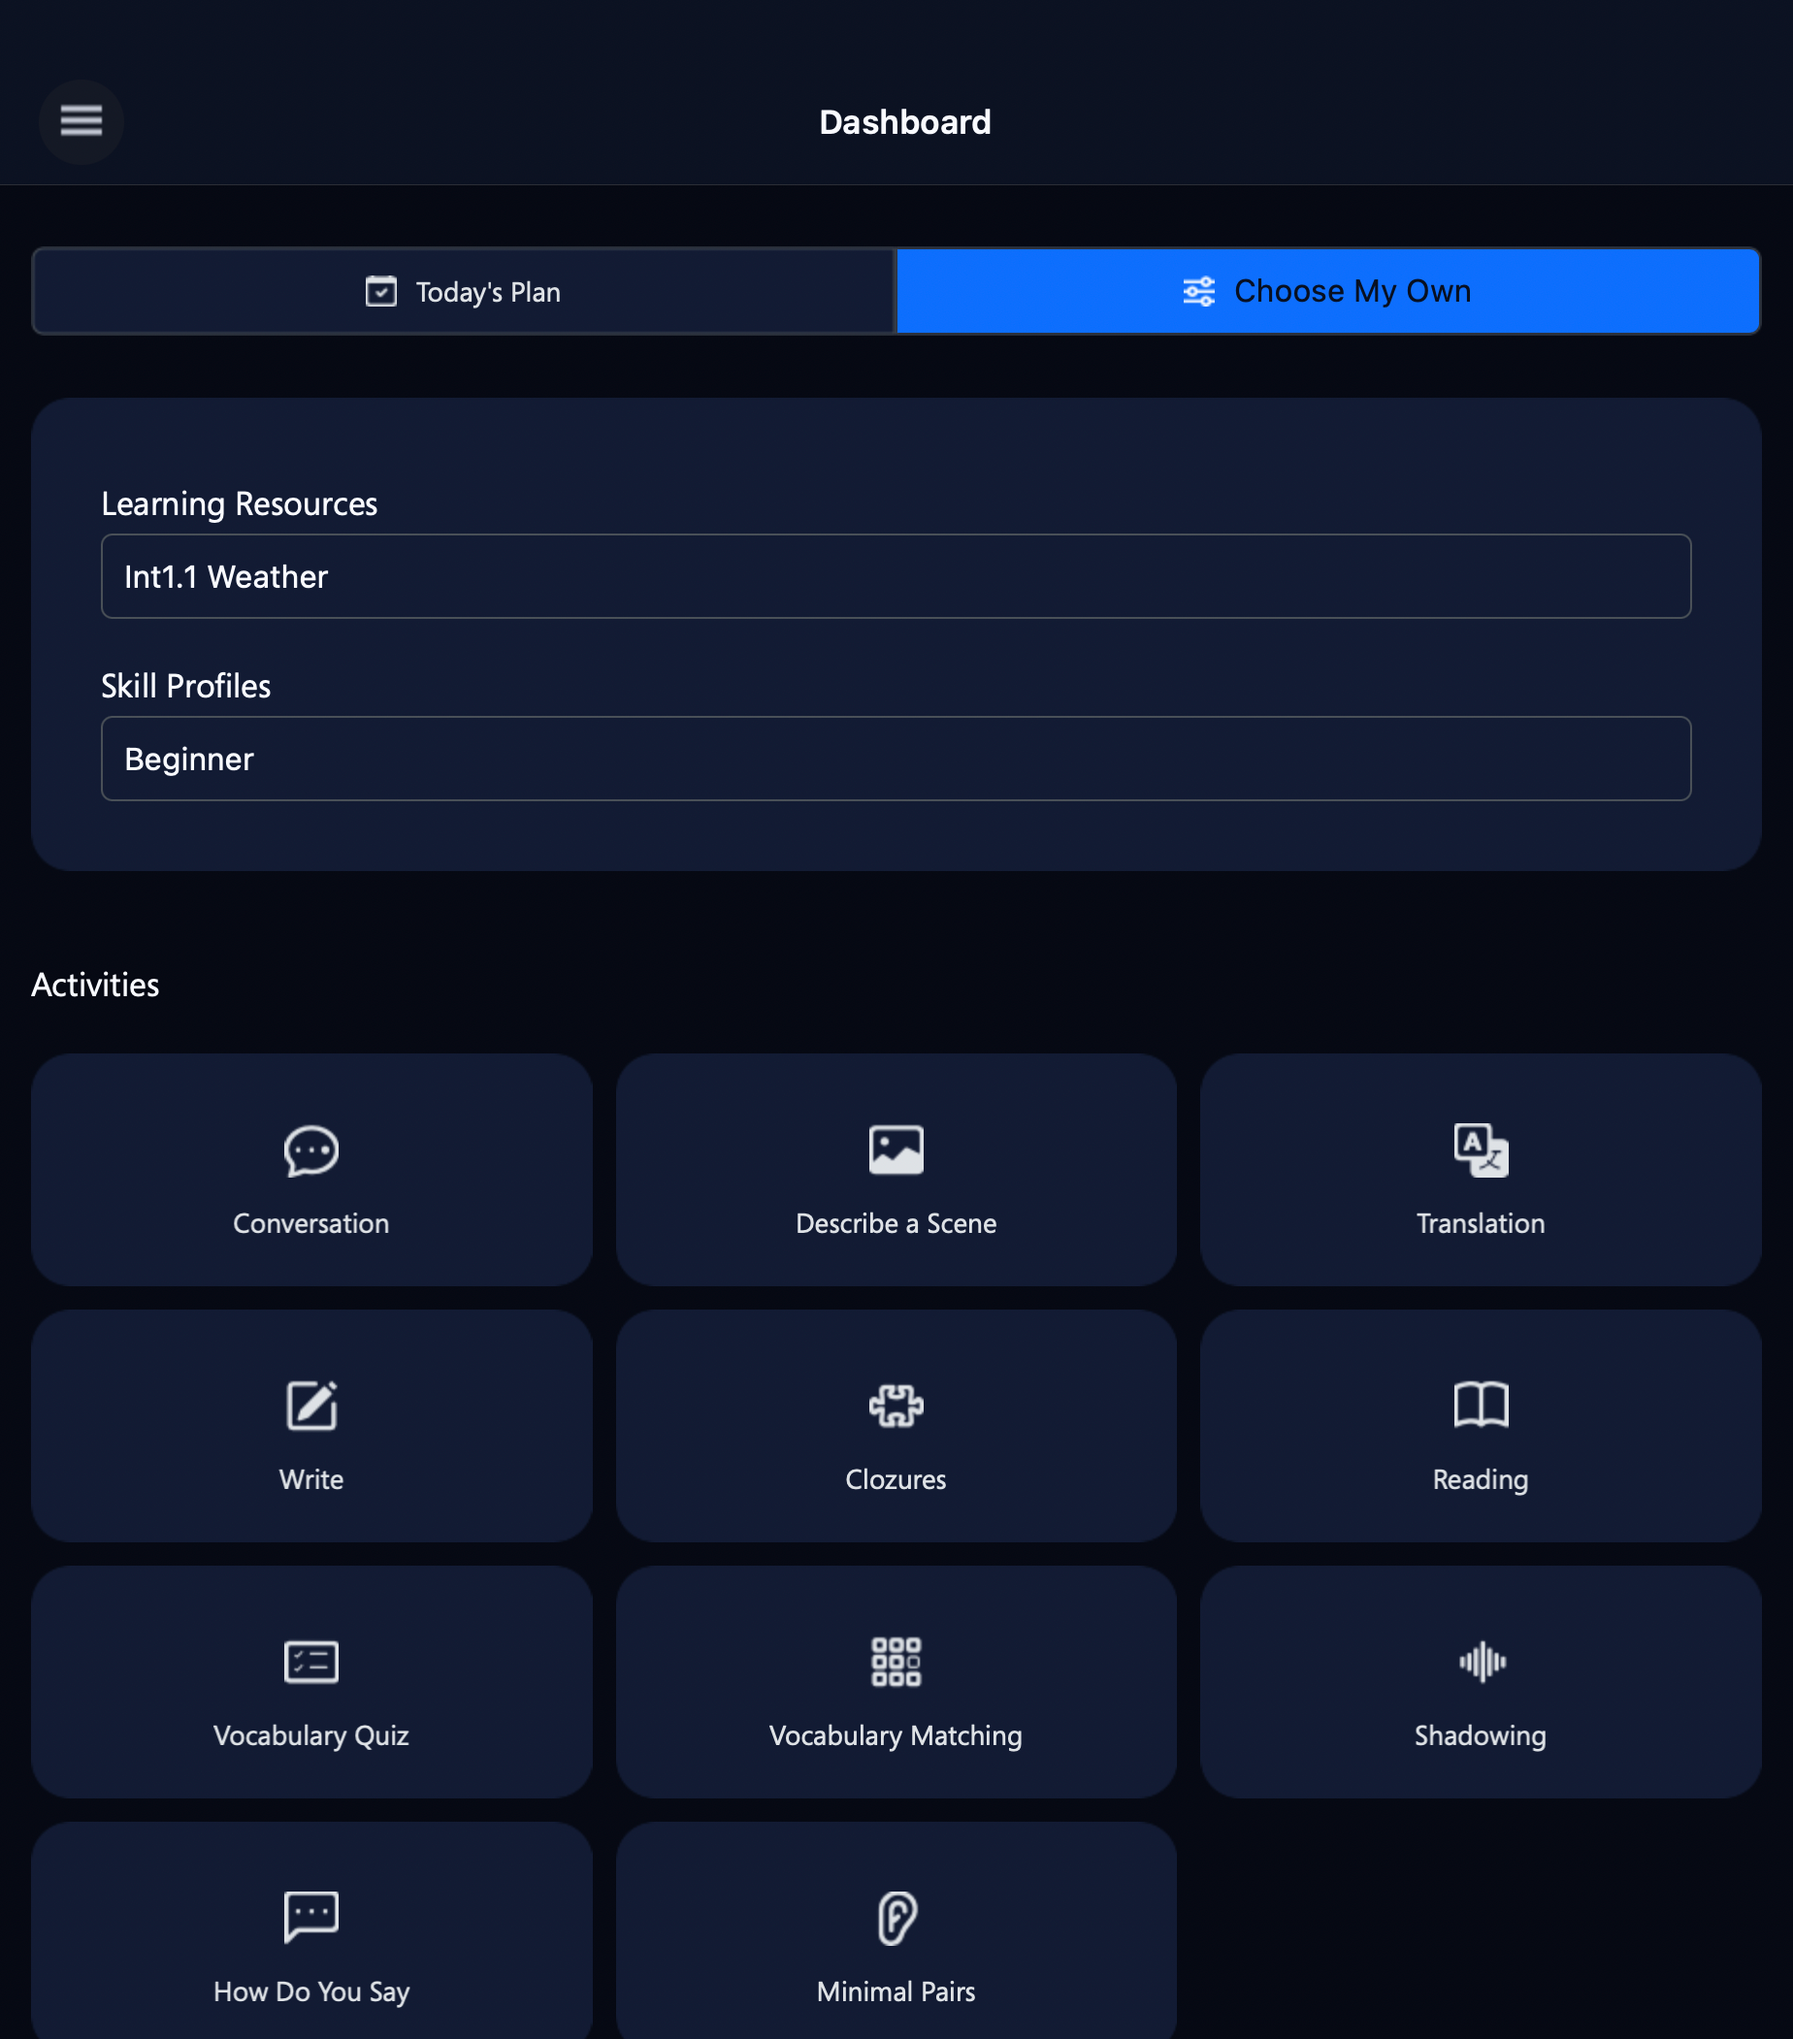
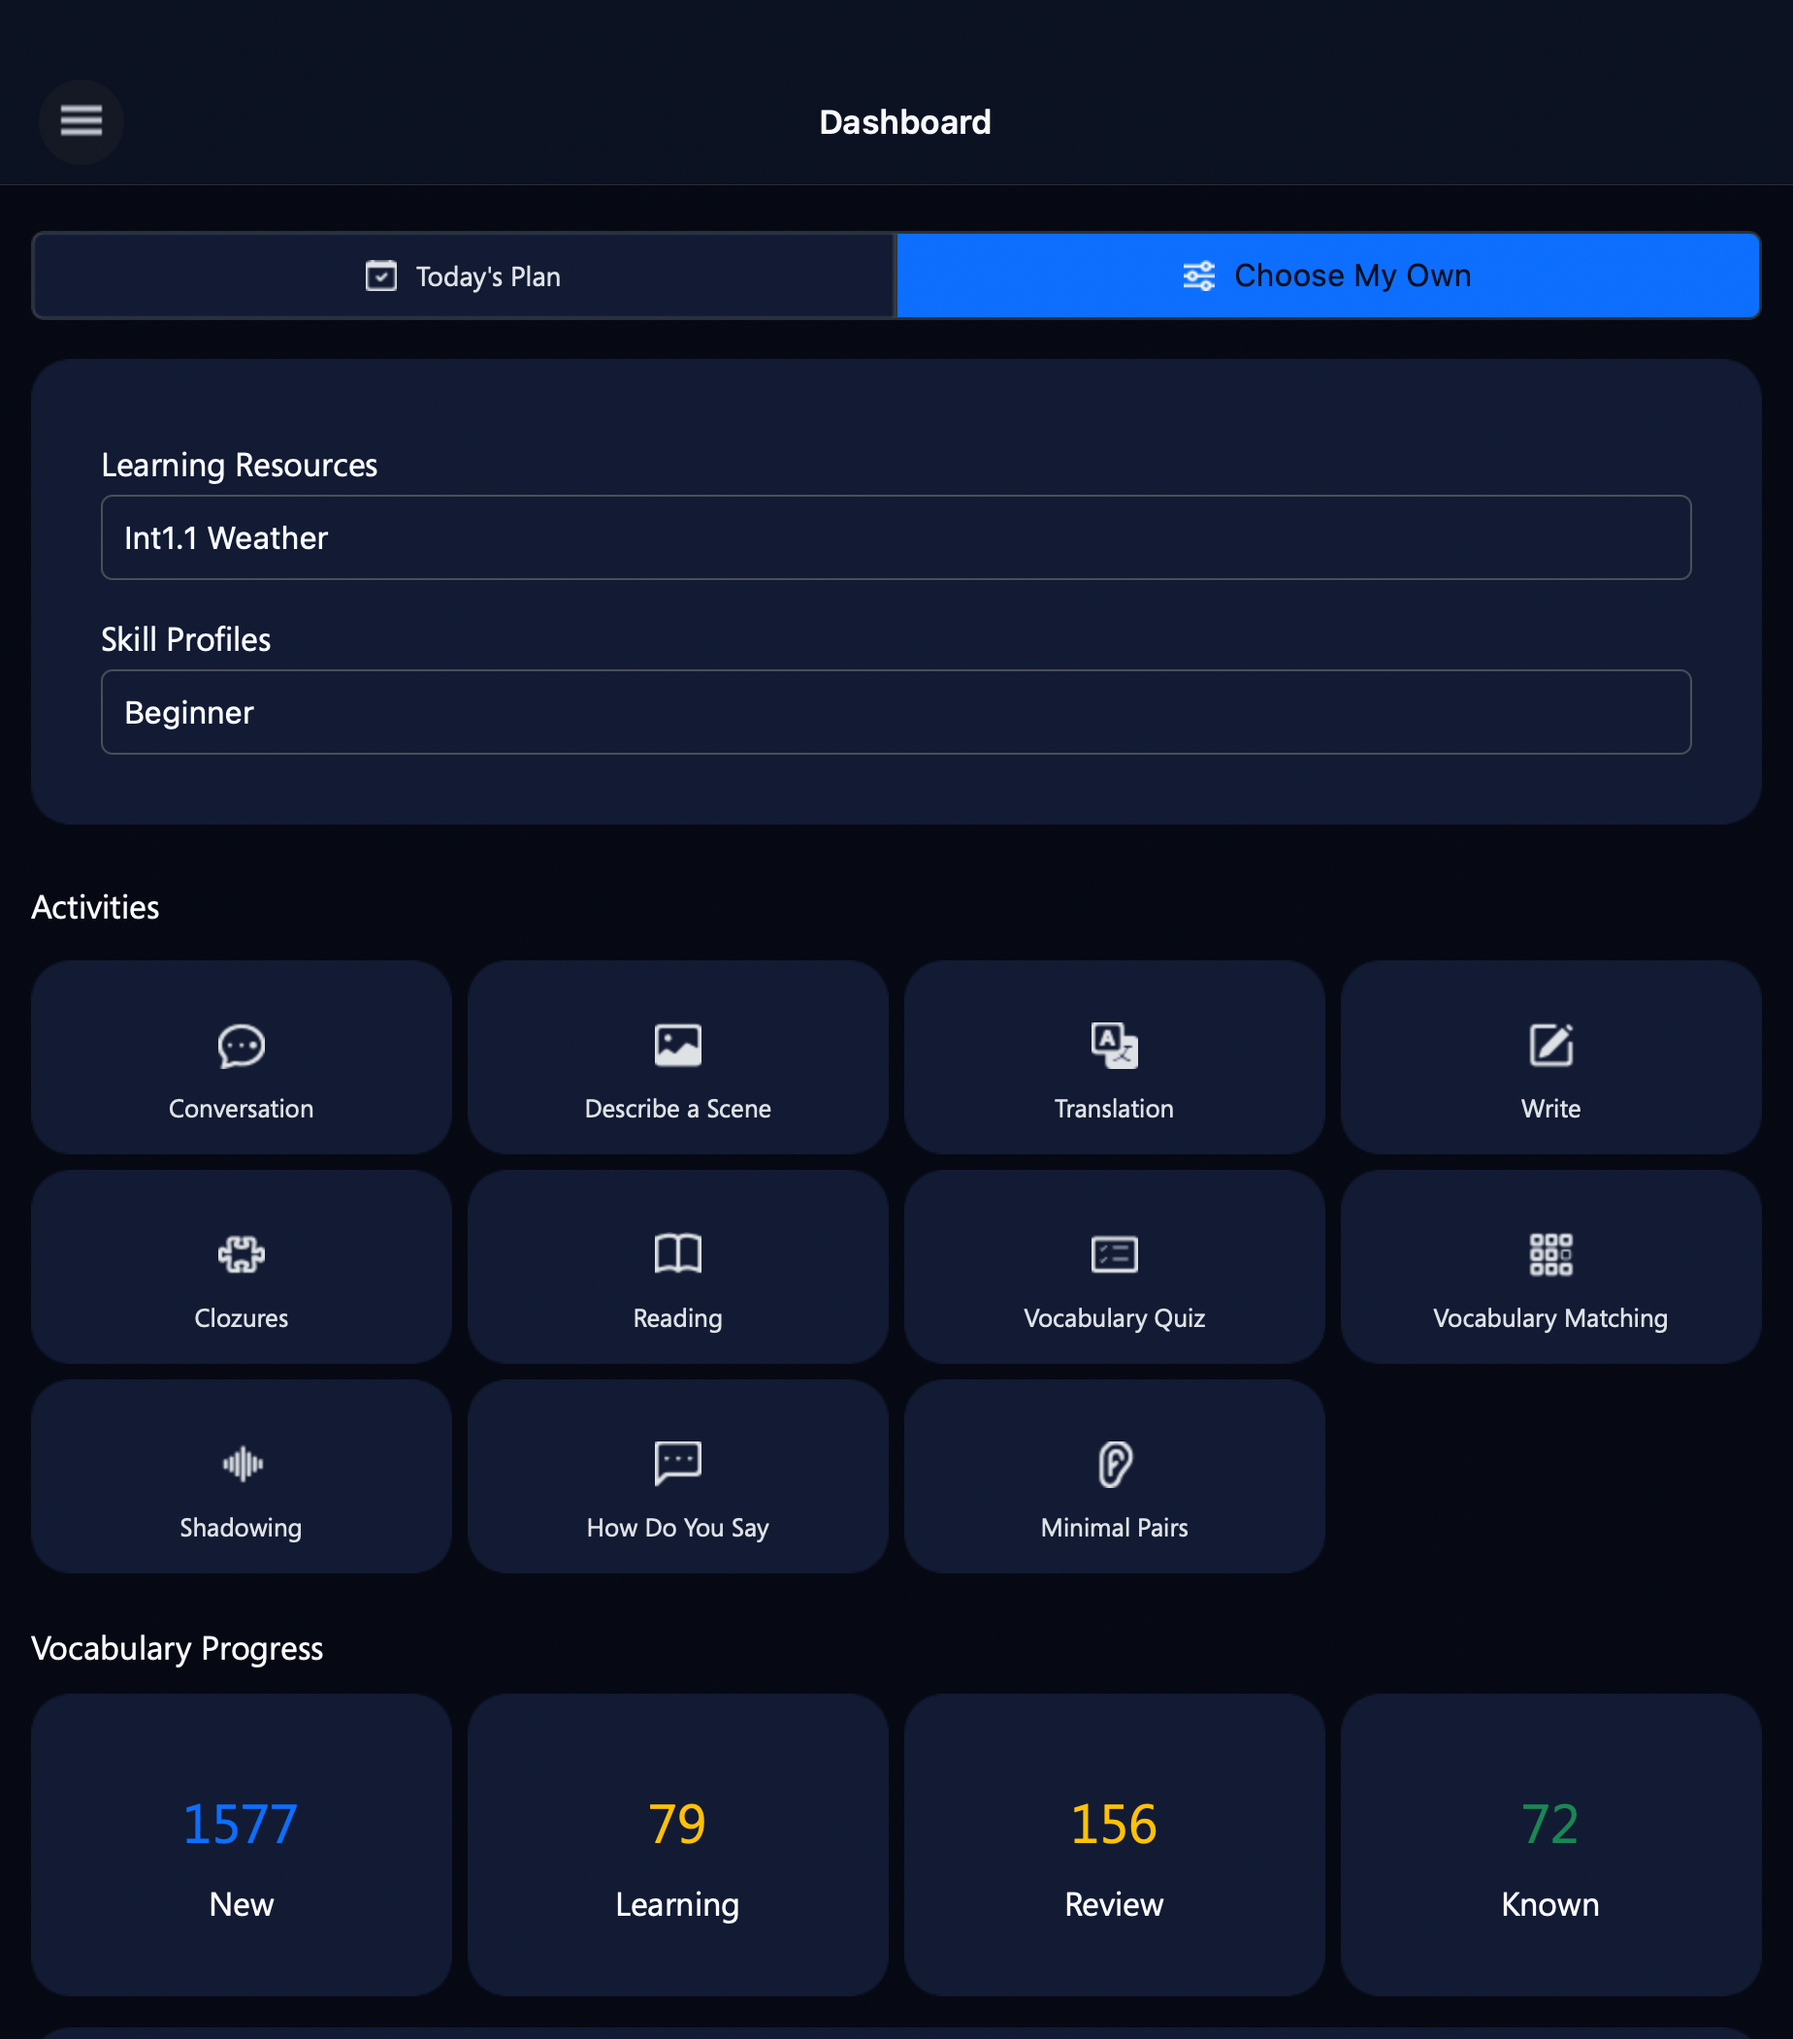
fix: remove Border wrappers from inputs, fix activity labels and grid columns
- Remove unnecessary Border wrappers around Entry in WritingPage and OnboardingPage
- Fix Dashboard activity grid max columns from 4 to 3
- Fix activity labels: Translation→Translate, Write→Writing, Clozures→Cloze

diff --git a/src/SentenceStudio/Pages/Writing/WritingPage.cs b/src/SentenceStudio/Pages/Writing/WritingPage.cs
@@ -120,23 +120,16 @@ partial class WritingPage : Component<WritingPageState, ActivityProps>
                 )
             ).GridColumnSpan(3),
 
-            Border(
-                Entry()
-                    .Class("form-control")
-                    .FontSize(DeviceInfo.Idiom == DeviceIdiom.Phone ? 16 : 32)
-                    .Text(State.UserInput)
-                    .OnTextChanged((s, e) => SetState(s => s.UserInput = e.NewTextValue))
-                    .ReturnType(State.ShowMore ? ReturnType.Next : ReturnType.Go)
-                    .OnCompleted(GradeMe)
-                    .Placeholder($"{_localize["WhatDoYouWantToSay"]}")
-            )
-            .Stroke(theme.GetOutline())
-            .StrokeShape(new RoundRectangle().CornerRadius(6))
-            .StrokeThickness(1)
-            .Padding(8, 0)
-            .Background(Colors.Transparent)
-            .GridRow(1)
-            .GridColumn(0),
+            Entry()
+                .Class("form-control")
+                .FontSize(DeviceInfo.Idiom == DeviceIdiom.Phone ? 16 : 32)
+                .Text(State.UserInput)
+                .OnTextChanged((s, e) => SetState(s => s.UserInput = e.NewTextValue))
+                .ReturnType(State.ShowMore ? ReturnType.Next : ReturnType.Go)
+                .OnCompleted(GradeMe)
+                .Placeholder($"{_localize["WhatDoYouWantToSay"]}")
+                .GridRow(1)
+                .GridColumn(0),
 
             ImageButton()
                 .Source(BootstrapIcons.Create(BootstrapIcons.Translate, theme.GetOnBackground(), 20))

diff --git a/src/SentenceStudio/Pages/Onboarding/OnboardingPage.cs b/src/SentenceStudio/Pages/Onboarding/OnboardingPage.cs
@@ -274,17 +274,11 @@ public partial class OnboardingPage : Component<OnboardingState>
                     .H3()
                     .HCenter(),
 
-                Border(
-                    Entry()
-                        .Class("form-control")
-                        .Text(State.Name)
-                        .Placeholder("Enter your name or tap a suggestion below")
-                        .OnTextChanged(text => SetState(s => s.Name = text))
-                )
-                .StrokeShape(new RoundRectangle().CornerRadius(6))
-                .Stroke(BootstrapTheme.Current.GetOutline())
-                .StrokeThickness(1)
-                .Padding(4),
+                Entry()
+                    .Class("form-control")
+                    .Text(State.Name)
+                    .Placeholder("Enter your name or tap a suggestion below")
+                    .OnTextChanged(text => SetState(s => s.Name = text)),
 
                 // Show loading indicator when generating names
                 State.IsLoadingNames ?

diff --git a/src/SentenceStudio/Pages/Dashboard/DashboardPage.cs b/src/SentenceStudio/Pages/Dashboard/DashboardPage.cs
@@ -512,7 +512,7 @@ partial class DashboardPage : Component<DashboardPageState>
         };
 
         double screenWidth = State.Width / State.Density;
-        int columns = screenWidth >= 1200 ? 4 : (screenWidth >= 900 ? 3 : (screenWidth >= 600 ? 2 : 1));
+        int columns = screenWidth >= 900 ? 3 : (screenWidth >= 600 ? 2 : 1);
         int rows = (int)Math.Ceiling((double)activities.Length / columns);
         string rowDefs = string.Join(",", Enumerable.Repeat("Auto", rows));
         string colDefs = string.Join(",", Enumerable.Repeat("*", columns));
